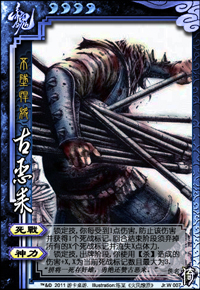
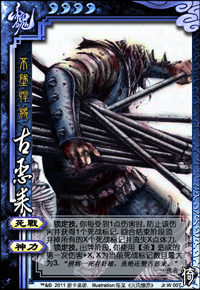
Improved the implementation of Guelai

Changed region(s): [[0.03, 0.7138, 0.96, 0.9621]]

diff --git a/src/yitianpackage.cpp b/src/yitianpackage.cpp
@@ -1466,6 +1466,8 @@ public:
                 room->sendLog(log);
                 room->loseHp(elai, x);
             }
+
+            elai->setFlags("-shenli");
         }
 
         return false;
@@ -1480,7 +1482,9 @@ public:
 
     virtual bool trigger(TriggerEvent event, ServerPlayer *elai, QVariant &data) const{
         DamageStruct damage = data.value<DamageStruct>();
-        if(damage.card && damage.card->inherits("Slash")){
+        if(damage.card && damage.card->inherits("Slash") &&
+           elai->getPhase() == Player::Play && !elai->hasFlag("shenli"))
+        {
             int x = elai->getMark("@struggle");
             if(x > 0){
                 x = qMin(3, x);
@@ -1493,6 +1497,8 @@ public:
                 log.arg = QString::number(x);
                 log.arg2 = QString::number(damage.damage);
                 elai->getRoom()->sendLog(log);
+
+                elai->setFlags("shenli");
             }
         }
 
